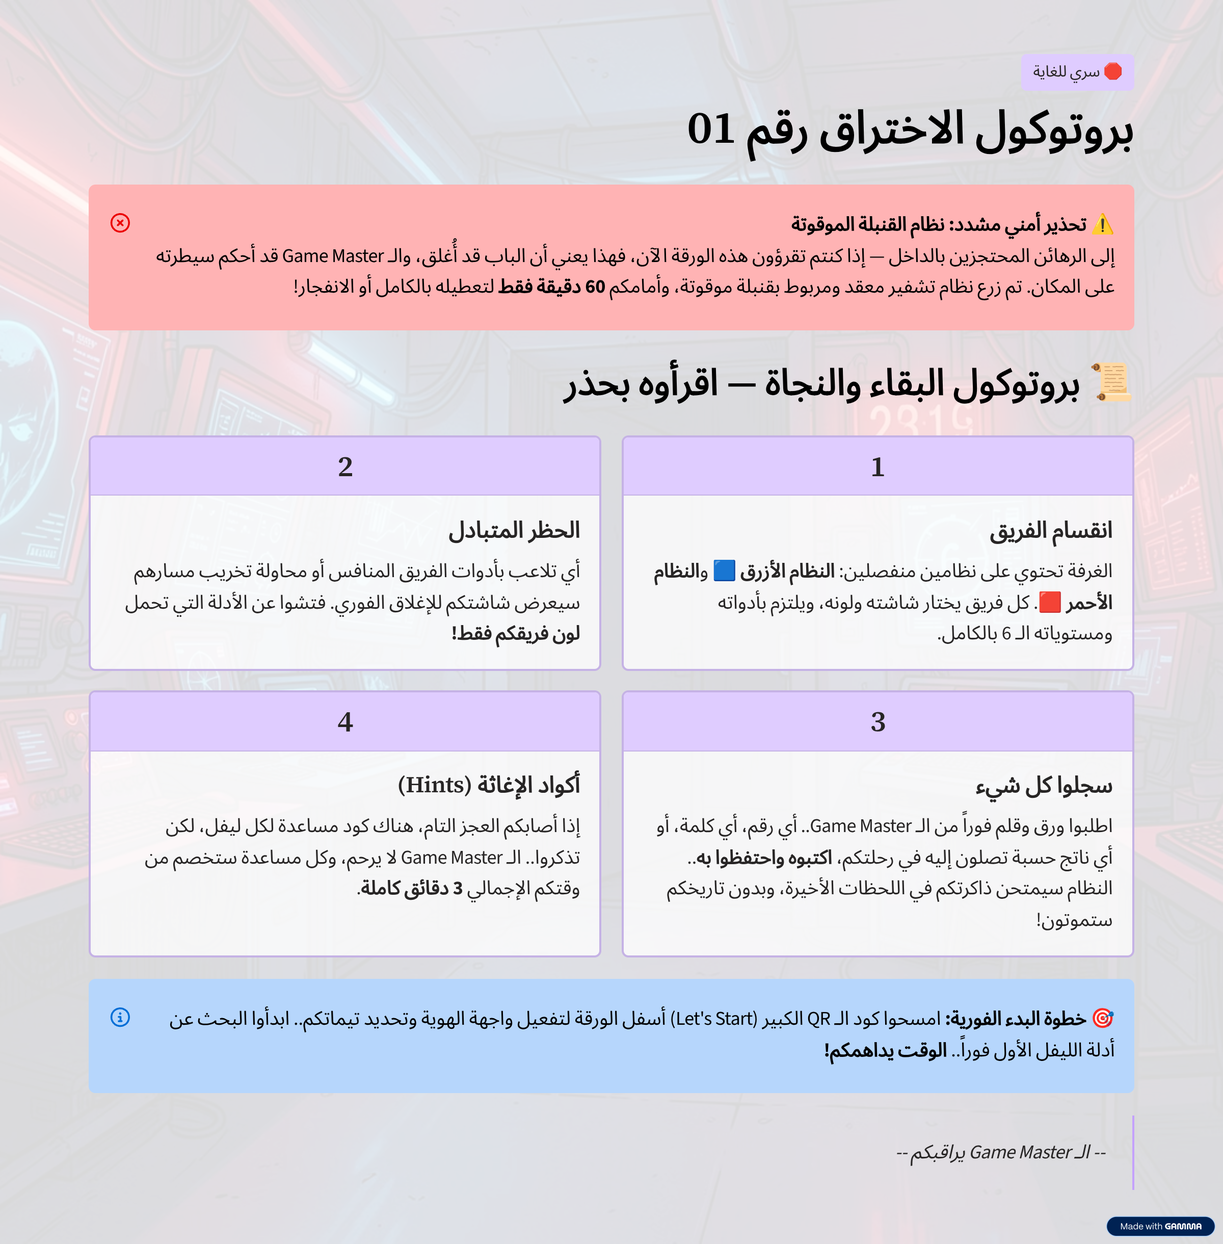
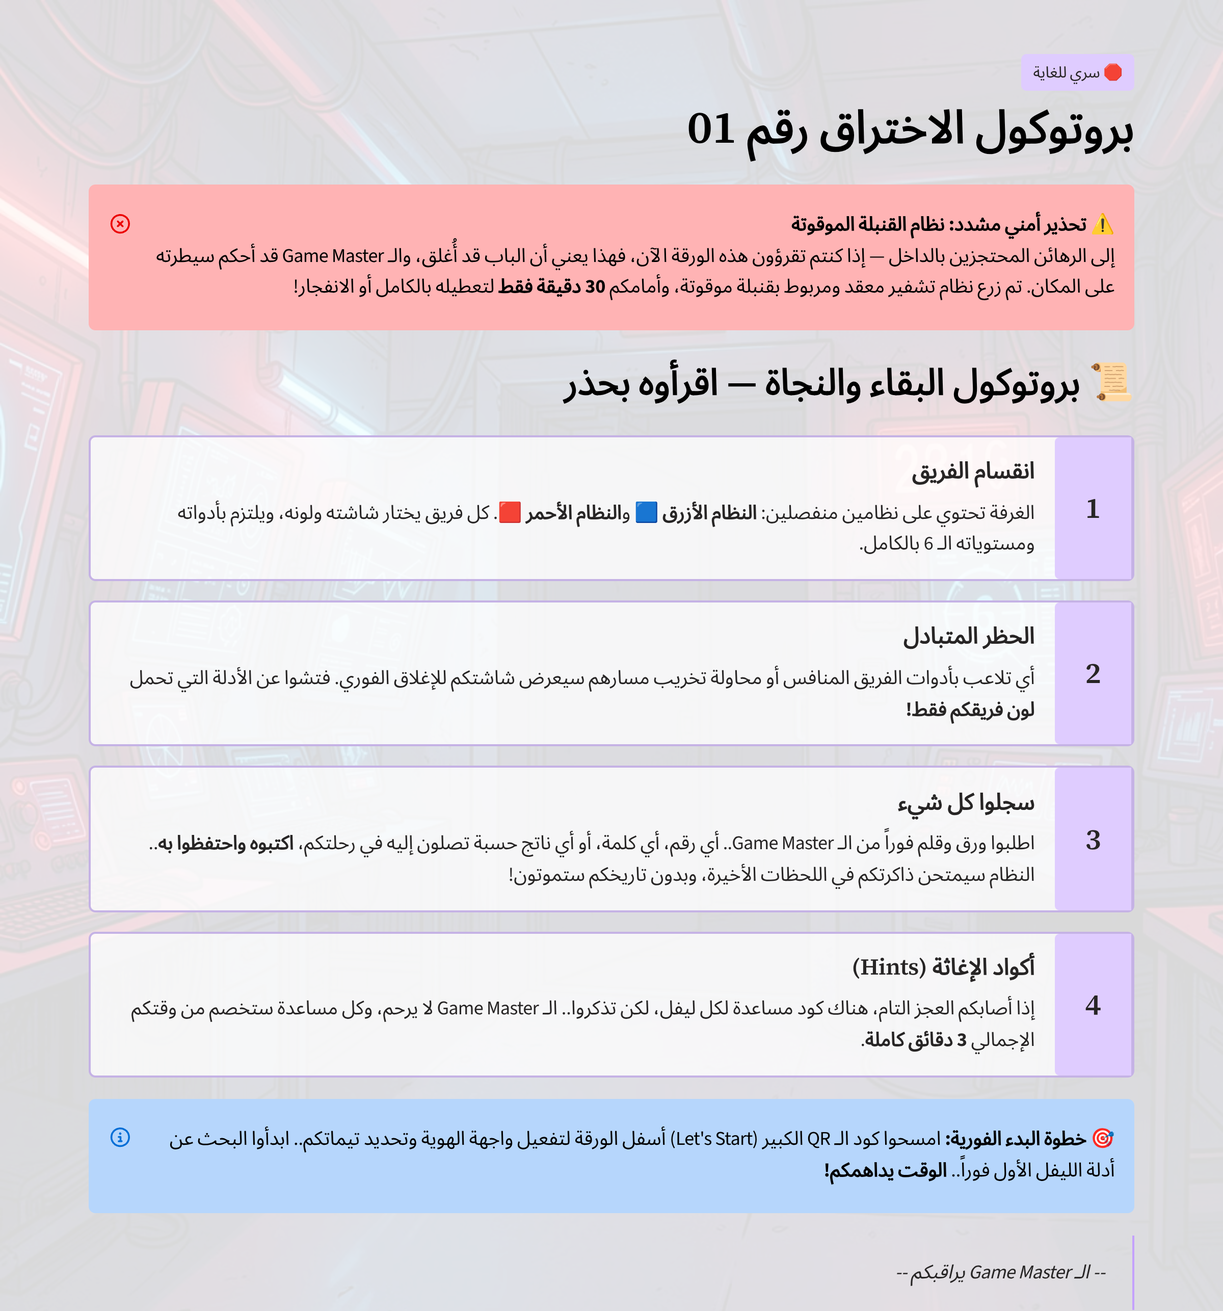
Version 4.0

diff --git a/game.html b/game.html
@@ -235,6 +235,39 @@
             color: #ff0033 !important;
             text-shadow: 0 0 25px #ff0033 !important;
         }
+        body.fake-win-green {
+            background-color: #021a0e !important;
+            --neon-main: #2ecc71 !important;
+            --neon-main-rgb: 46, 204, 113 !important;
+            --neon-sec: #27ae60 !important;
+            --neon-sec-rgb: 39, 174, 96 !important;
+            transition: all 0.5s ease;
+        }
+        body.fake-win-green .glass-card {
+            background: rgba(10, 35, 20, 0.7) !important;
+            border-color: rgba(46, 204, 113, 0.4) !important;
+            box-shadow: 
+                0 15px 35px rgba(0, 0, 0, 0.5),
+                0 0 25px rgba(46, 204, 113, 0.2) !important;
+        }
+        body.fake-win-green .card-accent {
+            border-color: #2ecc71 !important;
+            filter: drop-shadow(0 0 4px #2ecc71) !important;
+        }
+        @keyframes trophy-bounce {
+            from { transform: translateY(0) scale(1); filter: drop-shadow(0 0 5px rgba(241,196,15,0.6)); }
+            to { transform: translateY(-12px) scale(1.05); filter: drop-shadow(0 0 20px rgba(241,196,15,1)); }
+        }
+        @keyframes green-btn-pulse {
+            0% {
+                box-shadow: 0 0 8px #2ecc71, inset 0 0 4px #2ecc71;
+                background: rgba(46,204,113,0.1);
+            }
+            100% {
+                box-shadow: 0 0 22px #2ecc71, inset 0 0 10px #2ecc71;
+                background: rgba(46,204,113,0.25);
+            }
+        }
     </style>
 </head>
 <body class="theme-default">
@@ -290,6 +323,29 @@
                         <div id="members-display-list" style="display: flex; flex-wrap: wrap; justify-content: center; gap: 6px;"></div>
                     </div>
                     <div id="player-display-team" class="team-indicator" style="border-top: 1px solid rgba(var(--neon-main-rgb), 0.15); padding-top: 8px; margin-top: 8px;">-- loading --</div>
+                </div>
+
+                <!-- Fake Win Container -->
+                <div id="fake-win-container" style="display: none; width: 100%; text-align: center; padding: 20px 0;">
+                    <div class="fake-win-trophy" style="font-size: 5.5rem; color: #f1c40f; text-shadow: 0 0 25px #f1c40f; animation: trophy-bounce 1.2s infinite alternate; margin-bottom: 25px;">
+                        <i class="fas fa-trophy"></i>
+                    </div>
+                    <h2 style="color: #2ecc71; font-weight: 900; font-size: 1.6rem; line-height: 1.6; margin-bottom: 25px; text-shadow: 0 0 15px rgba(46,204,113,0.5);">
+                        🎉 مبروووك! تم إبطال القنبلة بنجاح وتفكيك النظام الأمني!
+                    </h2>
+                    
+                    <button id="btn-claim-prize" class="btn-start" style="max-width: 320px; margin: 10px auto;">
+                        <div class="btn-glow-container" style="border-color: #2ecc71; box-shadow: 0 0 12px #2ecc71, inset 0 0 6px #2ecc71; background: rgba(46,204,113,0.15); animation: green-btn-pulse 1.5s infinite alternate;"></div>
+                        <span class="btn-text" style="color: #fff; text-shadow: 0 0 8px rgba(255,255,255,0.8);">اضغط هنا لاستلام الجائزة والعيدية 🎁</span>
+                    </button>
+
+                    <div id="deceptive-progress-container" style="display: none; width: 100%; max-width: 350px; margin: 25px auto 0;">
+                        <div id="deceptive-subtext" style="font-size: 0.95rem; color: #2ecc71; margin-bottom: 12px; font-weight: 700; transition: color 0.3s ease;">جاري تجهيز المكافأة وفك تشفير صندوق العيدية...</div>
+                        <div class="deceptive-bar-bg" style="width: 100%; height: 22px; background: rgba(0,0,0,0.5); border: 1px solid rgba(46,204,113,0.4); border-radius: 11px; overflow: hidden; position: relative; transition: border-color 0.3s ease;">
+                            <div id="deceptive-bar-fill" style="width: 0%; height: 100%; background: linear-gradient(90deg, #2ecc71, #27ae60); box-shadow: 0 0 10px #2ecc71; transition: width 4.5s cubic-bezier(0.25, 0.8, 0.25, 1); border-radius: 11px;"></div>
+                            <div id="deceptive-percent" style="position: absolute; top: 50%; left: 50%; transform: translate(-50%, -50%); font-size: 0.85rem; font-weight: 900; color: #fff; font-family: monospace; text-shadow: 0 0 4px #000;">0%</div>
+                        </div>
+                    </div>
                 </div>
 
                 <!-- Level Container -->
@@ -437,6 +493,81 @@
             } catch (e) {
                 console.warn('Audio Synthesis blocked or failed:', e);
             }
+        }
+
+        // Glitch audio helper
+        function playGlitchSound() {
+            try {
+                initAudioContext();
+                const now = audioCtx.currentTime;
+                // Generate a series of rapid beep-glitches
+                for (let i = 0; i < 6; i++) {
+                    const osc = audioCtx.createOscillator();
+                    const gain = audioCtx.createGain();
+                    osc.connect(gain);
+                    gain.connect(audioCtx.destination);
+                    
+                    osc.type = i % 2 === 0 ? 'sawtooth' : 'square';
+                    osc.frequency.setValueAtTime(100 + Math.random() * 800, now + i * 0.08);
+                    gain.gain.setValueAtTime(0.3, now + i * 0.08);
+                    gain.gain.exponentialRampToValueAtTime(0.01, now + i * 0.08 + 0.07);
+                    
+                    osc.start(now + i * 0.08);
+                    osc.stop(now + i * 0.08 + 0.08);
+                }
+            } catch(e) {}
+        }
+
+        // Arabic numeral normalization helper
+        function convertArabicNumerals(str) {
+            if (!str) return '';
+            const arabicNums = ['٠', '١', '٢', '٣', '٤', '٥', '٦', '٧', '٨', '٩'];
+            return str.replace(/[٠-٩]/g, d => arabicNums.indexOf(d));
+        }
+
+        // Glitch transition helper
+        function triggerGlitchAndSuddenDeath() {
+            playGlitchSound();
+            
+            const fill = document.getElementById('deceptive-bar-fill');
+            if (fill) {
+                fill.style.transition = 'none';
+                fill.style.background = '#ff0033';
+                fill.style.boxShadow = '0 0 20px #ff0033';
+            }
+            const bg = document.querySelector('.deceptive-bar-bg');
+            if (bg) {
+                bg.style.borderColor = 'rgba(255, 0, 51, 0.7)';
+            }
+            const subtext = document.getElementById('deceptive-subtext');
+            if (subtext) {
+                subtext.style.color = '#ff0033';
+                subtext.textContent = "❌ فشل النظام! تم اختراق بروتوكول الحماية الخفي!";
+            }
+            
+            document.body.classList.add('shake-heavy');
+            document.body.classList.add('panic-red');
+            startAlarmSound();
+            
+            // Instantly transition gameplay screen to panic mode
+            setTimeout(() => {
+                const fakeWin = document.getElementById('fake-win-container');
+                if (fakeWin) fakeWin.style.display = 'none';
+                document.body.classList.remove('fake-win-green');
+                
+                document.getElementById('player-badge-panel').style.display = 'block';
+                document.getElementById('active-gameplay-section').style.display = 'block';
+                document.getElementById('countdown-timer').style.display = 'block';
+                document.getElementById('timer-icon-label').style.display = 'block';
+                document.getElementById('security-note-panel').style.display = 'block';
+                
+                isPanicActive = true;
+                panicTimerEnd = Date.now() + 60 * 1000;
+                localStorage.setItem('escape_room_panic_active', 'true');
+                localStorage.setItem('escape_room_panic_timer_end', panicTimerEnd);
+                
+                renderActiveLevel();
+            }, 1500);
         }
 
         // 2. Loop alarm synthesizer for Levels 6 panic mode
@@ -590,7 +721,7 @@
                     hint: "الكلمات هي (حرارة، سرعة، نور، ميجابايت، سلك).. فكر في جهاز تكنولوجي في البيت كلنا بنجري وراه لما يفصل!"
                 },
                 red: {
-                    text: "الكنز المفقود! 🪙 5 عملات معدنية تحمل الشعار الأحمر مبعثرة في الغرفة.. كل عملة تعثرون عليها تحمل كلمة دلالية (Clue).. اعثروا على العملات الخمسة، اربطوا الكلمات الغامضة ببعضها، واكتبوا اسم الشيء النهائي الذي تدل عليه هذه الكلمات!",
+                    text : "هناك 5 كروت ورقية حمراء مخبأة بعناية في أرجاء المكان، كل كارت يحمل كلمة دلالية واحدة (احذروا، فقد يكون أحدها مجمدًا! 🥶). ابحثوا عنها واجمعوها، وركّبوا الروابط الفكرية بينها لتستنتجوا اسم الشيء النهائي الذي تشير إليه كل هذه الأدلة.. اكتبوا اسم الشيء باللغة العربية هنا لتخطي المرحلة!",
                     answer: ["العداد", "عداد الكهرباء"],
                     hintCode: "RT33",
                     hint: "الكلمات هي (كارت، رصيد، كيلووات، شريحة، إنذار).. فكر في حاجة في الشقة لو رصيدها خلص البيت كله بيضلم!"
@@ -615,11 +746,11 @@
                 title: "المرحلة السادسة: لغز الدمج الكبير المزدوج 🧮",
                 blue: {
                     text: "العد التنازلي النهائي بدأ! 🚨 القنبلة لن تتوقف إلا بكود الدمج الرئيسي.. اجمعوا شفرات رحلتكم بالترتيب الإلزامي وبدون مسافات: (مجموع كروت الأونو في ليفل 1) + (عدد حروف اسم مدرستكم المعكوس في ليفل 2 بدون حساب المسافة) + (الناتج النهائي لمعادلة الأونو في ليفل 3) + (الكلمة النهائية لقطع البازل في ليفل 4) + (الكلمة السرية لشفرة مورس في ليفل 5)!",
-                    answer: ["1113220الروترSOS", "1113220الراوترSOS"]
+                    answer: ["1117220الروترSOS", "1117220الراوترSOS"]
                 },
                 red: {
                     text: "العد التنازلي النهائي بدأ! 🚨 القنبلة لن تتوقف إلا بكود الدمج الرئيسي.. اجمعوا شفرات رحلتكم بالترتيب الإلزامي وبدون مسافات: (إجمالي الأموال في ليفل 1) + (عدد حروف اسم جمهوريتكم المعكوس في ليفل 2 بدون حساب المسافة) + (الناتج النهائي للحسبة الجمركية في ليفل 3) + (الشيء النهائي لعملات الكنز في ليفل 4) + (لون السلك الصحيح في ليفل 5)!",
-                    answer: ["21512900العدادالأخضر", "21512900العدادالاخضر"]
+                    answer: ["21519900العدادالأخضر", "21519900العدادالاخضر"]
                 }
             }
         };
@@ -737,6 +868,7 @@
             if (currentLevel > 6) {
                 gameplayControls.style.display = 'none';
                 winSection.style.display = 'block';
+                document.body.className = 'theme-default fake-win-green'; // Real green victory layout
                 document.getElementById('victory-text-display').textContent = 'مبرووووك يا وحوووش بجد بقى! 🎉 الهروب العظيم تم بنجاح بعد ما نجحتوا في الفخ الأخير للـ Game Master! عديتوا المستحيل.. اخرجوا فكوا الحصار وادخلوا كلوا العيدية بالهنا والشفا!';
                 const statusNode = document.getElementById('puzzle-status');
                 if (statusNode) statusNode.innerHTML = '<i class="fas fa-unlock"></i> تم فك التشفير بالكامل';
@@ -771,9 +903,9 @@
                         document.getElementById('answer-input').placeholder = "أدخل رمز تعطيل الفتيل هنا...";
                         
                         if (team === 'blue') {
-                            document.getElementById('riddle-text').textContent = 'لتعطيل الفتيل فوراً: اضربوا أرقام كروت الأونو الثلاثة التي عثرتم عليها في البداية معاً في بعضها، ثم اضربوا الناتج النهائي في رقم المستوى الحالي وهو  واكتبوا الشفرة فوراً!';
+                            document.getElementById('riddle-text').innerHTML = 'ههههه.. فاكرين إنكم كدّة كسبتوا؟! 😈 النظام اتهكر من جديد، القنبلة فيها فتيل سري وباقي دقيقة واحدة على الانفجار الحقيقي! حلوا اللغز ده فوراً وإلا كل تعبكم ضاع!<br><br><strong>ضرب أرقام كروت الأونو الثلاثة التي عثرتم عليها في البداية معاً في بعضها، ثم اضربوا الناتج النهائي في رقم المستوى الحالي وهو (6) واكتبوا الشفرة فوراً!</strong>';
                         } else {
-                            document.getElementById('riddle-text').textContent = 'لتعطيل الفتيل فوراً: اجمعوا قيمتي أصغر ورقتين ماليتين عثرتم عليهما في البداية معاً، ثم اضربوا الناتج النهائي في رقم المستوى الحالي وهو  واكتبوا الشفرة فوراً!';
+                            document.getElementById('riddle-text').innerHTML = 'ههههه.. فاكرين إنكم كدّة كسبتوا؟! 😈 النظام اتهكر من جديد، القنبلة فيها فتيل سري وباقي دقيقة واحدة على الانفجار الحقيقي! حلوا اللغز ده فوراً وإلا كل تعبكم ضاع!<br><br><strong>اجمعوا قيمتي أصغر ورقتين ماليتين عثرتم عليهما في البداية معاً، ثم اضربوا الناتج النهائي في رقم المستوى الحالي وهو (6) واكتبوا الشفرة فوراً!</strong>';
                         }
                     }
                 } else {
@@ -851,6 +983,7 @@
             overlay.classList.add('active');
             
             try {
+
                 initAudioContext();
                 const now = audioCtx.currentTime;
                 const osc = audioCtx.createOscillator();
@@ -876,7 +1009,7 @@
                 overlay.classList.remove('active');
                 setTimeout(() => {
                     overlay.remove();
-                    if (callback) callback();
+                if (callback) callback();
                 }, 500);
             }, 1800);
         }
@@ -900,7 +1033,7 @@
             if (currentLevel > 6) return;
 
             const inputEl = document.getElementById('answer-input');
-            let userAns = inputEl.value.trim();
+            let userAns = convertArabicNumerals(inputEl.value.trim());
             
             if (team === 'blue' && currentLevel === 5) {
                 userAns = userAns.toUpperCase();
@@ -929,34 +1062,68 @@
 
             if (isCorrect) {
                 if (currentLevel === 6 && !isPanicActive) {
-                    // Trigger Deceptive Fake Win
-                    inputEl.classList.add('success-flash');
-                    playSynthSound('fake-win');
+                    // Transition the UI to green victory aesthetic
+                    document.body.className = 'theme-default fake-win-green';
                     
-                    // Disable interface during deceptive win
-                    inputEl.disabled = true;
-                    document.getElementById('btn-submit-answer').disabled = true;
+                    // Hide gameplay panels
+                    document.getElementById('player-badge-panel').style.display = 'none';
+                    document.getElementById('active-gameplay-section').style.display = 'none';
+                    document.getElementById('countdown-timer').style.display = 'none';
+                    document.getElementById('timer-icon-label').style.display = 'none';
+                    document.getElementById('security-note-panel').style.display = 'none';
+                    
+                    // Show Fake Win Container
+                    const fakeWinContainer = document.getElementById('fake-win-container');
+                    fakeWinContainer.style.display = 'block';
+                    
+                    // Reset elements
+                    const claimBtn = document.getElementById('btn-claim-prize');
+                    const progressContainer = document.getElementById('deceptive-progress-container');
+                    const barFill = document.getElementById('deceptive-bar-fill');
+                    const percentText = document.getElementById('deceptive-percent');
+                    const subtext = document.getElementById('deceptive-subtext');
+                    
+                    claimBtn.style.display = 'flex';
+                    progressContainer.style.display = 'none';
+                    barFill.style.transition = 'width 4.5s cubic-bezier(0.25, 0.8, 0.25, 1)';
+                    barFill.style.width = '0%';
+                    barFill.style.background = 'linear-gradient(90deg, #2ecc71, #27ae60)';
+                    barFill.style.boxShadow = '0 0 10px #2ecc71';
+                    percentText.textContent = '0%';
+                    subtext.style.color = '#2ecc71';
+                    subtext.textContent = "جاري تجهيز المكافأة وفك تشفير صندوق العيدية...";
+                    
+                    playSynthSound('fake-win');
 
-                    setTimeout(() => {
-                        inputEl.classList.remove('success-flash');
-                        inputEl.disabled = false;
-                        document.getElementById('btn-submit-answer').disabled = false;
-
-                        // SUDDENLY trigger panic mode
-                        isPanicActive = true;
-                        panicTimerEnd = Date.now() + 60 * 1000;
-                        localStorage.setItem('escape_room_panic_active', 'true');
-                        localStorage.setItem('escape_room_panic_timer_end', panicTimerEnd);
+                    claimBtn.onclick = function() {
+                        claimBtn.style.display = 'none';
+                        progressContainer.style.display = 'block';
                         
-                        document.body.classList.add('panic-red');
-                        document.body.classList.add('shake-heavy');
-                        startAlarmSound();
+                        setTimeout(() => {
+                            barFill.style.width = '99%';
+                        }, 50);
                         
-                        alert('ههههه.. فاكرين إنكم كدّة كسبتوا؟! 😈 النظام اتهكر من جديد، القنبلة فيها فتيل سري وباقي دقيقة واحدة على الانفجار الحقيقي! حلوا اللغز ده فوراً وإلا كل تعبكم ضاع!');
-                        
-                        renderActiveLevel();
-                    }, 3000);
-
+                        let percent = 0;
+                        const startTime = Date.now();
+                        const duration = 4500; // 4.5 seconds
+                        const percentInterval = setInterval(() => {
+                            const elapsed = Date.now() - startTime;
+                            const progress = Math.min(elapsed / duration, 1);
+                            const easeProgress = 1 - Math.pow(1 - progress, 3);
+                            percent = Math.floor(easeProgress * 99);
+                            percentText.textContent = percent + '%';
+                            
+                            if (progress >= 1) {
+                                clearInterval(percentInterval);
+                                percentText.textContent = '99%';
+                                
+                                // Freeze for 2 full seconds
+                                setTimeout(() => {
+                                    triggerGlitchAndSuddenDeath();
+                                }, 2000);
+                            }
+                        }, 50);
+                    };
                 } else {
                     // Real success for normal levels or defuse logic
                     inputEl.classList.add('success-flash');
